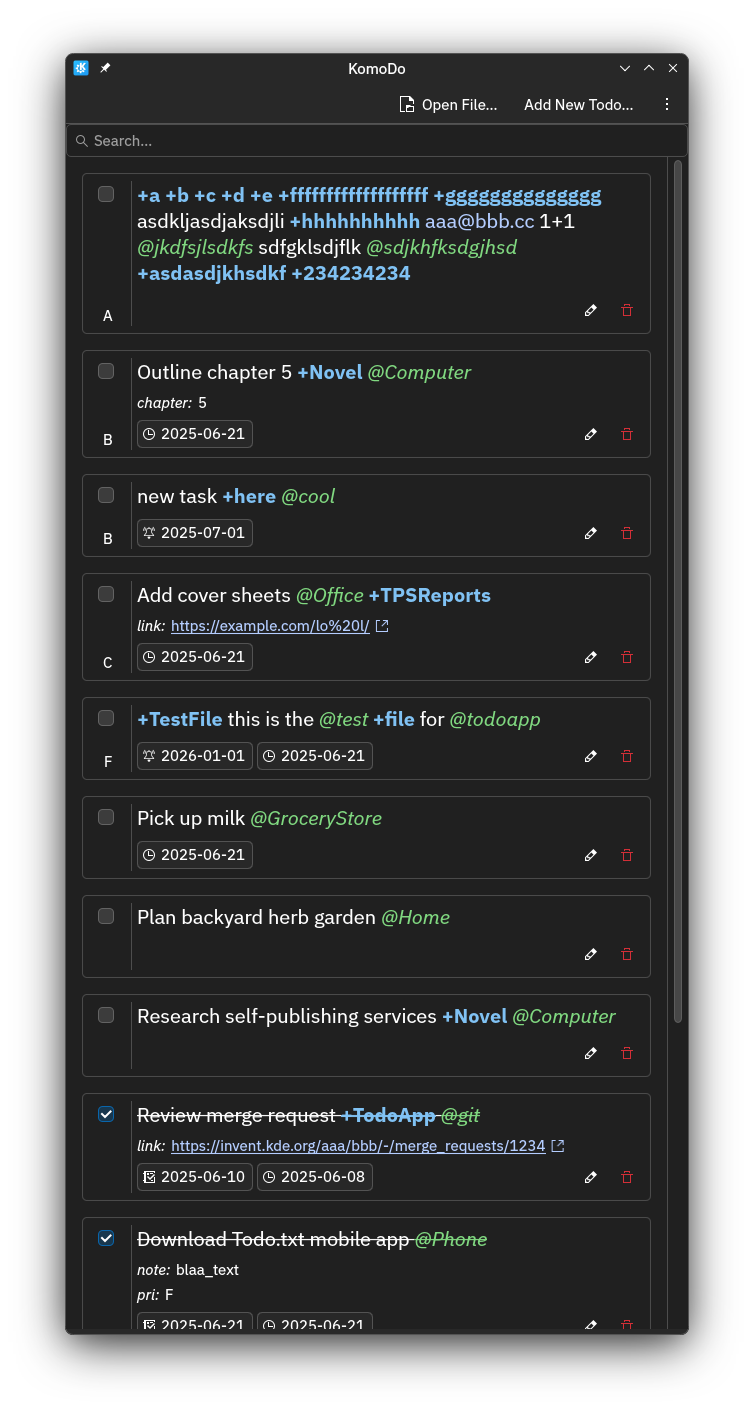
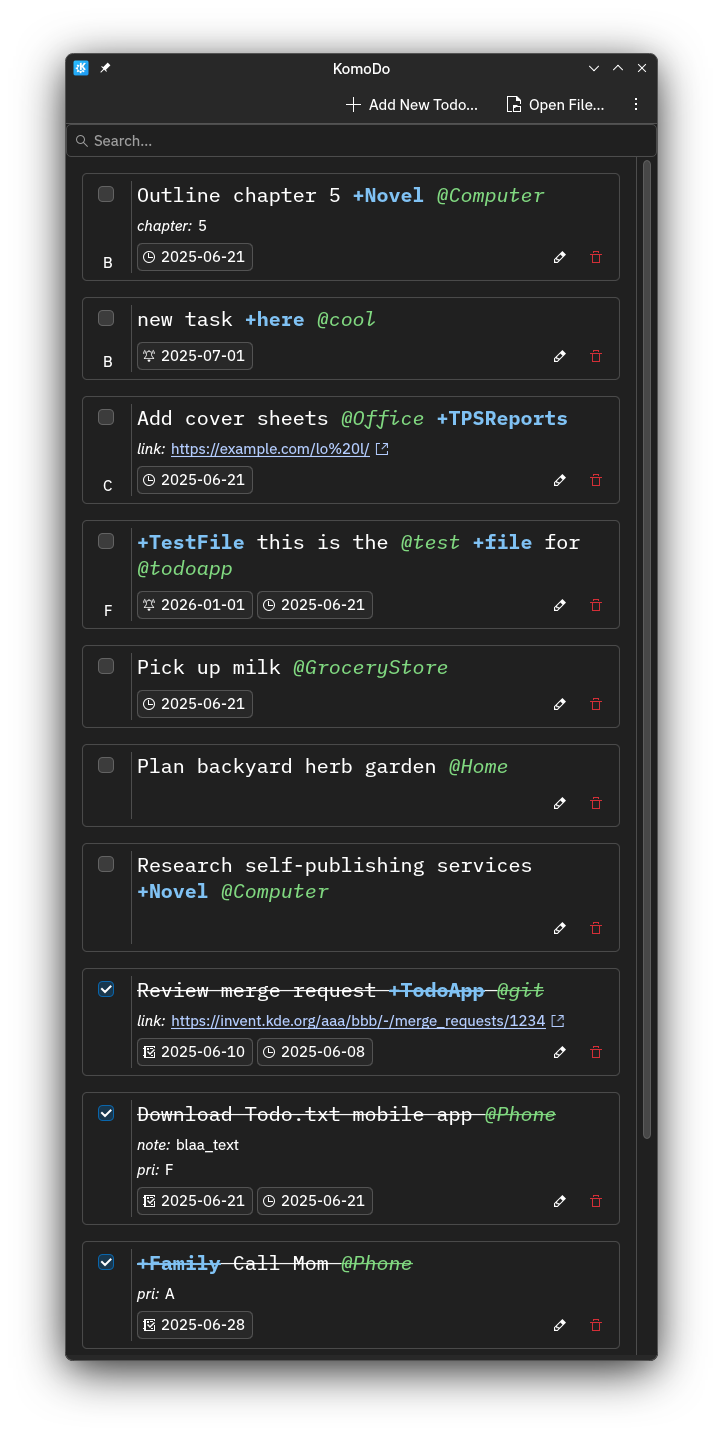
Update editor

diff --git a/src/ui/TodoPage.qml b/src/ui/TodoPage.qml
@@ -33,29 +33,28 @@ Kirigami.ScrollablePage {
 
     QQC2.Dialog {
         id: deletePrompt
-        title: "Delete Todo"
+        title: i18n("Delete Todo")
         anchors.centerIn: parent
         modal: true
         property var model
         property var index
         standardButtons: QQC2.DialogButtonBox.Cancel
         width: parent.width - Kirigami.Units.gridUnit * 4
-        contentItem.height: textLayout.height
-        ColumnLayout {
+        contentItem: ColumnLayout {
             id: textLayout
-            anchors.top: parent.top
-            anchors.left: parent.left
-            anchors.right: parent.right
             QQC2.Label {
                 Layout.fillWidth: true
                 wrapMode: Text.WordWrap
                 text: i18n("Are you sure you wish to delete this todo?")
             }
-            QQC2.Label {
+            QQC2.TextField {
+                font.family: "monospace"
+                readOnly: true
                 Layout.fillWidth: true
                 Layout.fillHeight: true
-                elide: Text.ElideRight
-                text: deletePrompt.model.description
+                Layout.minimumHeight: Kirigami.Units.gridUnit * 2
+                wrapMode: Text.Wrap
+                text: deletePrompt.model ? deletePrompt.model.description : ""
             }
         }
         footer: QQC2.DialogButtonBox {
@@ -74,59 +73,54 @@ Kirigami.ScrollablePage {
 
     QQC2.Dialog {
         id: editPrompt
-        title: "Edit Todo"
-        anchors.centerIn: parent
-        modal: true
         property var model
         property var index
         property alias text: editPromptText.text
+        property bool addNew: true
+        title: addNew ? i18n("Add New Todo") : i18n("Edit Todo")
+        anchors.centerIn: parent
+        modal: true
         width: parent.width - Kirigami.Units.gridUnit * 4
-        contentItem.height: editLayout.height
-        ColumnLayout {
-            id: editLayout
-            anchors.top: parent.top
-            anchors.left: parent.left
-            anchors.right: parent.right
-            QQC2.Label {
-                Layout.fillWidth: true
-                wrapMode: Text.WordWrap
-                text: editPrompt.model.description
-            }
 
+        contentItem: ColumnLayout {
             QQC2.TextField {
                 id: editPromptText
+                font.family: "monospace"
                 Layout.fillWidth: true
                 Layout.fillHeight: true
-                placeholderText: editPrompt.model.description
+                Layout.minimumHeight: Kirigami.Units.gridUnit * 2
+                wrapMode: Text.Wrap
+                placeholderText: editPrompt.addNew ? "" : editPrompt.model.description
+            }
+            RowLayout {
+                QQC2.Button {
+                    text: i18n("Date")
+                    onClicked: {
+                        let today = new Date();
+                        const tz = today.getTimezoneOffset();
+                        today = new Date(today.getTime() - (tz * 60 * 1000));
+                        editPromptText.insert(editPromptText.cursorPosition, today.toISOString().substring(0, 10));
+                    }
+                }
+
+                Kirigami.UrlButton {
+                    text: i18n("Syntax Help")
+                    url: "https://github.com/todotxt/todo.txt/blob/master/README.md"
+                }
             }
         }
+
         footer: QQC2.DialogButtonBox {
             standardButtons: QQC2.DialogButtonBox.Ok | QQC2.DialogButtonBox.Cancel
             onAccepted: {
-                const model = editPrompt.model;
-                model.description = editPromptText.text;
+                if (editPrompt.addNew) {
+                    TodoModel.addTodo(editPrompt.text);
+                } else {
+                    const model = editPrompt.model;
+                    model.description = editPromptText.text;
+                }
+                editPrompt.text = ""; // Clear TextField every time it's done
                 editPrompt.close();
-            }
-        }
-    }
-
-    QQC2.Dialog {
-        id: addPrompt
-        anchors.centerIn: parent
-        title: "Add New Todo"
-        modal: true
-        QQC2.TextField {
-            id: addPromptText
-            anchors.fill: parent
-            placeholderText: "(A) 2024-01-01 description +project @context key:value"
-        }
-
-        footer: QQC2.DialogButtonBox {
-            standardButtons: QQC2.DialogButtonBox.Ok
-            onAccepted: {
-                TodoModel.addTodo(addPromptText.text);
-                addPromptText.text = ""; // Clear TextField every time it's done
-                addPrompt.close();
             }
         }
     }
@@ -138,6 +132,15 @@ Kirigami.ScrollablePage {
 
     actions: [
         Kirigami.Action {
+            icon.name: "list-add"
+            text: i18nc("@action:button", "Add New Todo…")
+            enabled: TodoModel.filePath != ""
+            onTriggered: {
+                editPrompt.addNew = true;
+                editPrompt.open();
+            }
+        },
+        Kirigami.Action {
             icon.name: "document-open"
             text: i18nc("@action:button", "Open File…")
             onTriggered: {
@@ -145,19 +148,11 @@ Kirigami.ScrollablePage {
             }
         },
         Kirigami.Action {
-            icon.name: "add"
-            text: i18nc("@action:button", "Add New Todo…")
-            enabled: TodoModel.filePath != ""
-            onTriggered: {
-                addPrompt.open();
-            }
-        },
-        Kirigami.Action {
             text: i18nc("@action:inmenu", "About KomoDo")
             icon.name: "help-about"
             shortcut: StandardKey.HelpContents
             displayHint: Kirigami.DisplayHint.AlwaysHide
-            onTriggered: pageStack.layers.push(aboutPage)
+            onTriggered: pageStack.layers.push(root.aboutPage)
             enabled: pageStack.layers.depth <= 1
         }
     ]

diff --git a/src/ui/TodoDelegate.qml b/src/ui/TodoDelegate.qml
@@ -64,6 +64,7 @@ Kirigami.AbstractCard {
             ColumnLayout {
                 Layout.fillWidth: true
                 Kirigami.SelectableLabel {
+                    font.family: "monospace"
                     Layout.fillWidth: true
                     Layout.alignment: Qt.AlignTop
                     wrapMode: Text.Wrap
@@ -174,6 +175,7 @@ Kirigami.AbstractCard {
                         flat: true
                         icon.name: "edit-entry"
                         onClicked: {
+                            editPrompt.addNew = false;
                             editPrompt.text = todoDelegate.description;
                             editPrompt.model = model;
                             editPrompt.index = index;
